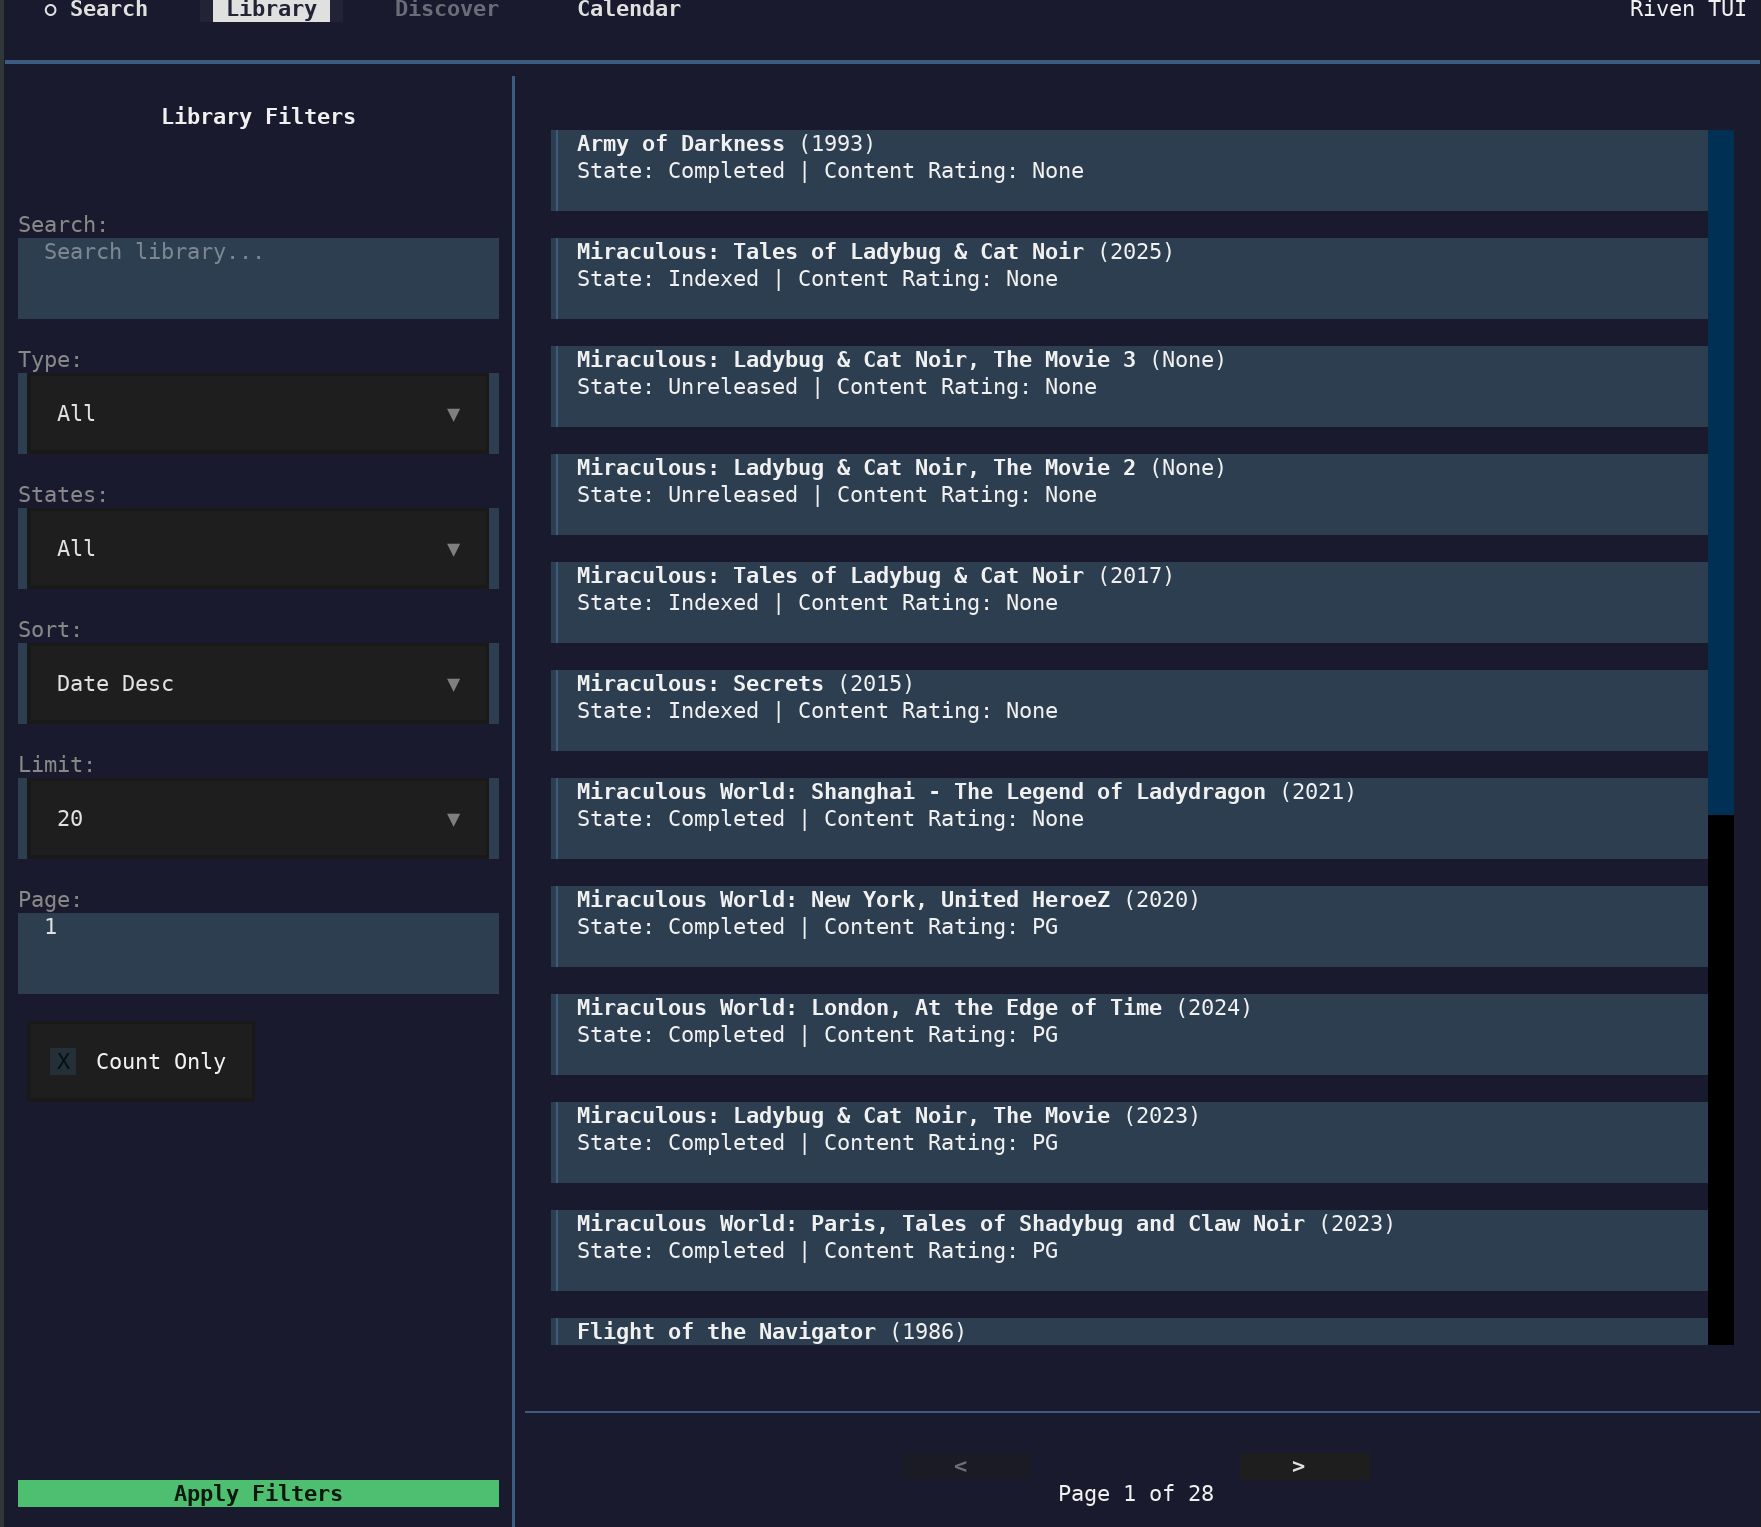
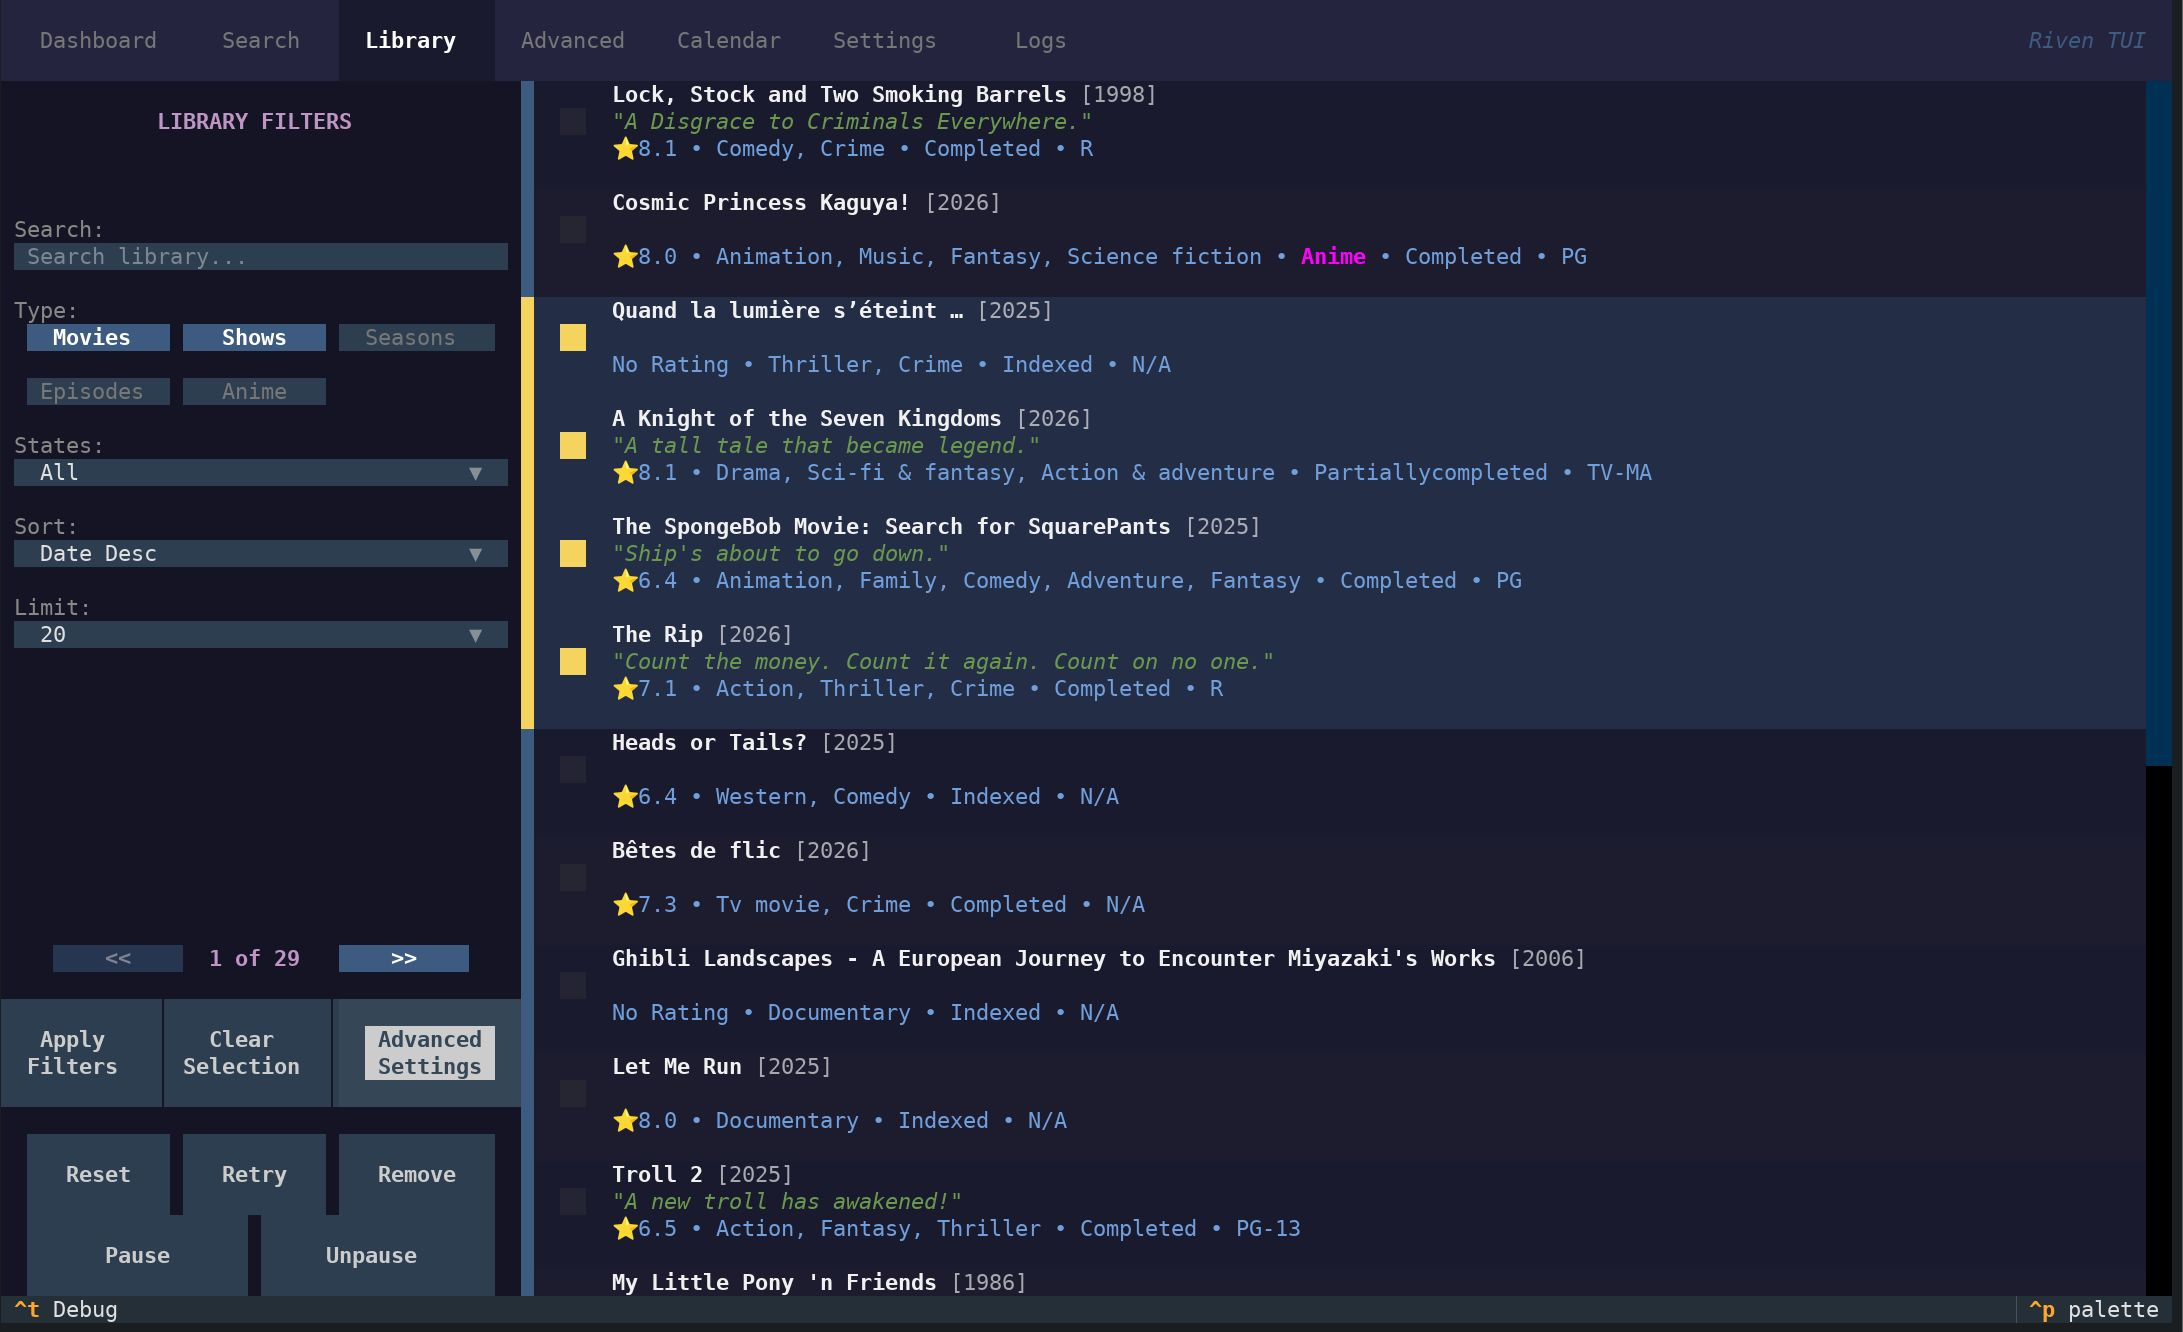
chore: release v1.2.9 - updated assets

diff --git a/version.py b/version.py
@@ -1,1 +1,1 @@
-VERSION = "1.2.8"
+VERSION = "1.2.9"

diff --git a/README.md b/README.md
@@ -4,7 +4,7 @@ A terminal-based management interface for [Riven](https://github.com/rivenmedia/
 
 Built for those who prefer staying in the shell, this TUI provides a visual way to monitor your library, search for content, and handle manual scrapes without opening a browser.
 
-![Dashboard](assets/welcome-dashboard.jpg)
+![Riven TUI](assets/riven-tui.gif)
 
 ## What's inside
 
@@ -13,7 +13,8 @@ Built for those who prefer staying in the shell, this TUI provides a visual way 
 - **Bulk Operations**: Select multiple items directly in the library view and perform batch actions (Reset, Retry, Remove, Pause, Unpause) with integrated safety confirmation modals.
 - **Manual Scraping**: A full workflow for stream discovery, torrent selection, and file-to-episode mapping directly from the TUI.
 - **Live Logs**: A dedicated, full-screen log viewer with real-time updates, keyword filtering, and negation support.
-- **Debug Window**: A toggleable real-time technical log overlay (`Ctrl+T`) with automated redaction of sensitive API keys and tokens. *Note: Data is only captured and displayed while the debug window is active.*- **Settings Editor**: A complete, tree-based configuration editor for your Riven backend settings.
+- **Debug Window**: A toggleable real-time technical log overlay (`Ctrl+T`) with automated redaction of sensitive API keys and tokens. *Note: Data is only captured and displayed while the debug window is active.*
+- **Settings Editor**: A complete, tree-based configuration editor for your Riven backend settings.
 - **Advanced Management**: Mass-action suite for library maintenance. Scan external lists (like [Mdblist](https://mdblist.com/)) and bulk Delete, Reset, or Retry items in your library.
 - **Posters & Visuals**: High-resolution poster rendering using [chafa](https://hpjansson.org/chafa/) with optimized aspect ratios for standard media posters.
 
@@ -46,13 +47,21 @@ If you used the **Quick Install** script above, you can start the TUI in two way
 
 ## Screenshots
 
-| Library | Search |
+| Dashboard | Library |
 | :---: | :---: |
-| ![Library](assets/library.jpg) | ![Search](assets/search.jpg) |
+| ![Dashboard](assets/welcome-dashboard.jpg) | ![Library](assets/library.jpg) |
 
-| Media Detail | Calendar |
+| Search | Media Detail |
 | :---: | :---: |
-| ![Media Card](assets/search-mediacard.jpg) | ![Calendar](assets/calendar.jpg) |
+| ![Search](assets/search.jpg) | ![Media Card](assets/search-mediacard.jpg) |
+
+| Calendar | Advanced |
+| :---: | :---: |
+| ![Calendar](assets/calendar.jpg) | ![Advanced](assets/advanced.jpg) |
+
+| Logs | Debug Window |
+| :---: | :---: |
+| ![Logs](assets/logs.jpg) | ![Debug Window](assets/debug-window.jpg) |
 
 ## ⚙ Advanced Features
 
